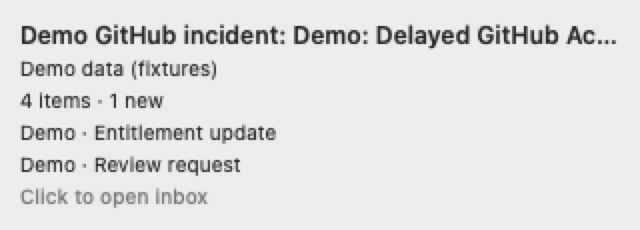
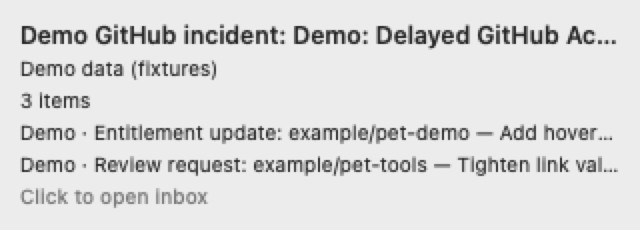
Regenerate beta README images from PR69's 529fdb4 CI artifact
Rendered with scripts/readme-screenshots.sh from GitHubPet-app artifact
14280978361 of run 43975833744 (head 529fdb4, build 213, ZIP SHA-256
7ee335d0…); provenance in docs/screenshots/beta/README.md. Demo fixtures only,
offscreen, never launched normally.

Refs #61

diff --git a/docs/screenshots/beta/README.md b/docs/screenshots/beta/README.md
@@ -3,19 +3,19 @@
 Unmodified native offscreen renders (`--render-snapshots`), not live desktop screenshots or
 mockups. Every inbox value is an invented Demo fixture; nothing came from GitHub.
 
-- Source revision of the rendered app: `49cdc0cf7d48c94b35d95a6ad579f2981f69ac26`
-- Generated: 2026-11-16T20:01:11Z
+- Source revision of the rendered app: `529fdb4591d7db864e3c7ababa830fdfd7cfc332`
+- Generated: 2026-11-16T23:15:46Z
 - Command: `scripts/readme-screenshots.sh <GitHubPet.app> docs/screenshots/beta <build notes>`
 - Renderer invocation: `GitHubPet --defaults-suite <throwaway> --fixtures --render-snapshots <scratch>`,
   with a gh trap (gh was not launched) and throwaway preferences.
 
 ## Build
 
-- PR69 head: `49cdc0cf7d48c94b35d95a6ad579f2981f69ac26` (main `0b71732` merged)
-- GitHub Actions run: https://github.com/christopherrbrown3/github-pet/actions/runs/43942417090 (success)
-- Artifact: `GitHubPet-app`, ID `14263502850`
[1 lines of base64/hex data omitted]
-- App: version 0.1.0, build 208, `GitHubPetSourceRevision` = the head above, universal (x86_64 arm64), `codesign --verify --deep --strict` OK
+- PR69 head: `529fdb4591d7db864e3c7ababa830fdfd7cfc332` (contains main `0b71732`)
+- GitHub Actions run: https://github.com/christopherrbrown3/github-pet/actions/runs/43975833744 (success)
+- Artifact: `GitHubPet-app`, ID `14280978361`
[1 lines of base64/hex data omitted]
+- App: version 0.1.0, build 213, `GitHubPetSourceRevision` = the head above, universal (x86_64 arm64), `codesign --verify --deep --strict` OK
 - Rendered on the developer's Mac (arm64) from the unzipped artifact, never launched normally
 
 ## Images
@@ -26,14 +26,14 @@ mockups. Every inbox value is an invented Demo fixture; nothing came from GitHub
[19 lines of base64/hex data omitted]
 
 Stills only: they do not show live pointer interaction, desktop placement, popover arrows or
 animation. Regenerate with the command above when the UI changes.
